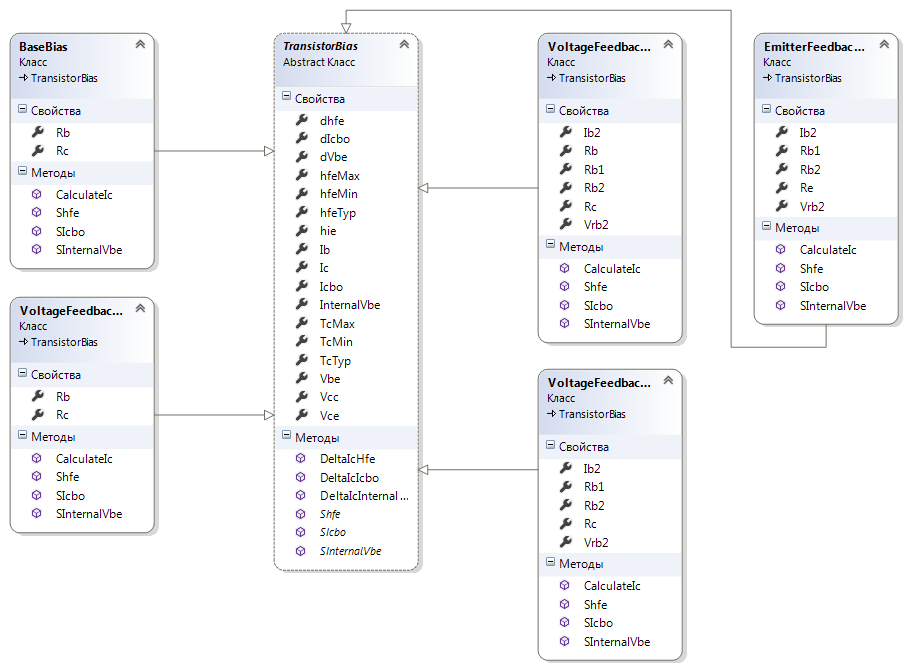
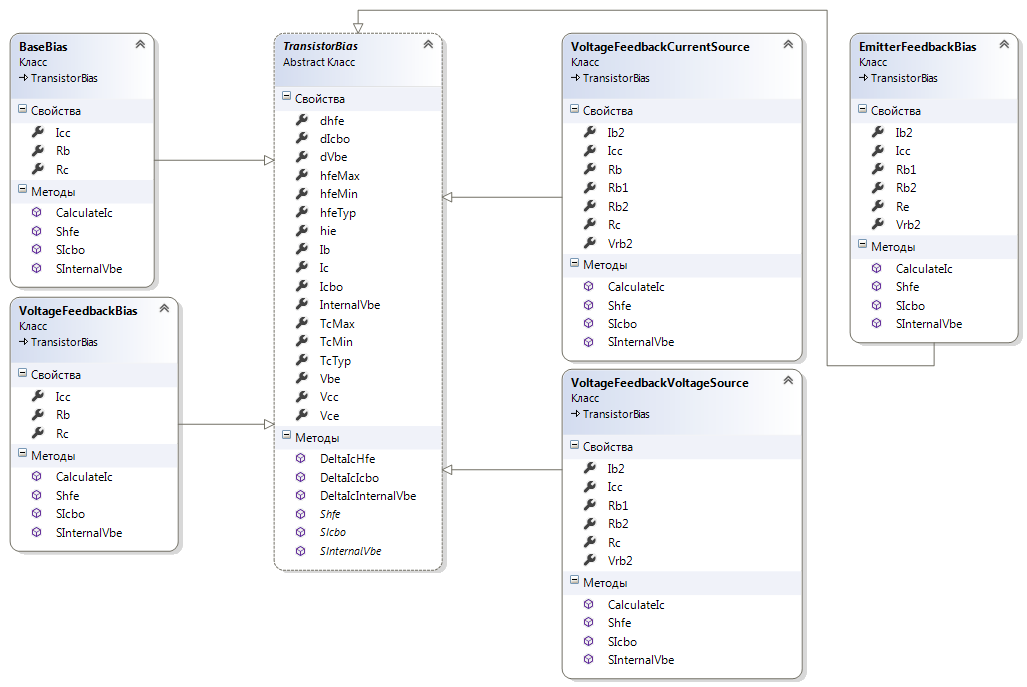
Добавление свойства Icc в классы транзисторных смещений. Редактирование домашней страницы

Changed region(s): [[0.0, 0.0, 1.0, 1.0]]

diff --git a/VKR/Site.Master.designer.cs b/VKR/Site.Master.designer.cs
@@ -1,10 +1,10 @@
 //------------------------------------------------------------------------------
-// <auto-generated>
-//     Этот код был создан программным средством.
+// <автоматически создаваемое>
+//     Этот код создан программой.
 //
-//     Изменения в этом файле могут привести к неправильному поведению и будут утрачены, если
-//     код создается повторно. 
-// </auto-generated>
+//     Изменения в этом файле могут привести к неправильной работе и будут потеряны в случае
+//     повторной генерации кода. 
+// </автоматически создаваемое>
 //------------------------------------------------------------------------------
 
 namespace VKR {
@@ -13,10 +13,10 @@ namespace VKR {
     public partial class SiteMaster {
         
         /// <summary>
-        /// Элемент управления MainContent.
+        /// MainContent элемент управления.
         /// </summary>
         /// <remarks>
-        /// Автоматически созданное поле.
+        /// Автоматически создаваемое поле.
         /// Для изменения переместите объявление поля из файла конструктора в файл кода программной части.
         /// </remarks>
         protected global::System.Web.UI.WebControls.ContentPlaceHolder MainContent;

diff --git a/VKR/BaseBiasForm.aspx.cs b/VKR/BaseBiasForm.aspx.cs
@@ -44,6 +44,7 @@ namespace VKR
 
             RbTextBox.Text = scheme.Rb.ToString();
             RcTextBox.Text = scheme.Rc.ToString();
+            IccTextBox.Text = scheme.Icc.ToString("0.00");
 
             IcTable.Rows[0].Cells[1].Text = scheme.hfeMin.ToString();
             IcTable.Rows[0].Cells[2].Text = scheme.hfeTyp.ToString();
@@ -71,11 +72,6 @@ namespace VKR
             STable.Rows[2].Cells[2].Text = deltaIcInternalVbe.ToString("0.000");
             STable.Rows[3].Cells[2].Text = deltaIcHfe.ToString("0.000");
             STable.Rows[4].Cells[2].Text = (deltaIcIcbo + deltaIcInternalVbe + deltaIcHfe).ToString("0.000");
-        }
-
-        protected void IcTextBox_TextChanged(object sender, EventArgs e)
-        {
-            Label1.Text = "IcTextBox Text = " + IcTextBox.Text;
         }
     }
 }

diff --git a/VKR/BaseBiasForm.aspx.designer.cs b/VKR/BaseBiasForm.aspx.designer.cs
@@ -184,15 +184,6 @@ namespace VKR {
         protected global::System.Web.UI.WebControls.Label IccLabel;
         
         /// <summary>
-        /// Label1 элемент управления.
-        /// </summary>
-        /// <remarks>
-        /// Автоматически создаваемое поле.
-        /// Для изменения переместите объявление поля из файла конструктора в файл кода программной части.
-        /// </remarks>
-        protected global::System.Web.UI.WebControls.Label Label1;
-        
-        /// <summary>
         /// hfeMinTextBox элемент управления.
         /// </summary>
         /// <remarks>

diff --git a/VKR/EmitterFeedbackBias.cs b/VKR/EmitterFeedbackBias.cs
@@ -58,6 +58,17 @@ namespace VKR
         }
 
         /// <summary>
+        /// Ток источника питания
+        /// </summary>
+        public double Icc
+        {
+            get
+            {
+                return CalculateIc(hfeTyp, TcTyp) + (Ib + Ib2) * 1000;
+            }
+        }
+
+        /// <summary>
         /// Вычисляет коэффициент стабилизации для теплового тока
         /// </summary>
         /// <param name="hfe">Коэффициент усиления тока коллектора</param>

diff --git a/VKR/VoltageFeedbackCurrentSource.cs b/VKR/VoltageFeedbackCurrentSource.cs
@@ -65,6 +65,17 @@ namespace VKR
         }
 
         /// <summary>
+        /// Ток источника питания
+        /// </summary>
+        public double Icc
+        {
+            get
+            {
+                return CalculateIc(hfeTyp, TcTyp) + (Ib + Ib2) * 1000;
+            }
+        }
+
+        /// <summary>
         /// Вычисляет коэффициент стабилизации для теплового тока
         /// </summary>
         /// <param name="hfe">Коэффициент усиления тока коллектора</param>

diff --git a/VKR/VoltageFeedbackVoltageSource.cs b/VKR/VoltageFeedbackVoltageSource.cs
@@ -54,6 +54,17 @@ namespace VKR
         }
 
         /// <summary>
+        /// Ток источника питания
+        /// </summary>
+        public double Icc
+        {
+            get
+            {
+                return CalculateIc(hfeTyp, TcTyp) + (Ib + Ib2) * 1000;
+            }
+        }
+
+        /// <summary>
         /// Вычисляет коэффициент стабилизации для теплового тока
         /// </summary>
         /// <param name="hfe">Коэффициент усиления тока коллектора</param>

diff --git a/VKR/VoltageFeedbackBias.cs b/VKR/VoltageFeedbackBias.cs
@@ -30,6 +30,17 @@ namespace VKR
         }
 
         /// <summary>
+        /// Ток источника питания
+        /// </summary>
+        public double Icc
+        {
+            get
+            {
+                return CalculateIc(hfeTyp, TcTyp) + Ib * 1000;
+            }
+        }
+
+        /// <summary>
         /// Вычисляет коэффициент стабилизации для теплового тока
         /// </summary>
         /// <param name="hfe">Коэффициент усиления тока коллектора</param>

diff --git a/VKR/BaseBias.cs b/VKR/BaseBias.cs
@@ -28,6 +28,17 @@
         }
 
         /// <summary>
+        /// Ток источника питания
+        /// </summary>
+        public double Icc
+        {
+            get
+            {
+                return CalculateIc(hfeTyp, TcTyp) + Ib * 1000;
+            }
+        }
+
+        /// <summary>
         /// Вычисляет коэффициент стабилизации для теплового тока
         /// </summary>
         /// <param name="hfe">Коэффициент усиления тока коллектора</param>

diff --git a/VKR/EmitterFeedbackForm.aspx.cs b/VKR/EmitterFeedbackForm.aspx.cs
@@ -45,6 +45,7 @@ namespace VKR
             Rb2TextBox.Text = scheme.Rb2.ToString("0.");
             ReTextBox.Text = scheme.Re.ToString("0.");
             Irb2TextBox.Text = (scheme.Ib2 * 1000).ToString();
+            IccTextBox.Text = scheme.Icc.ToString("0.00");
 
             IcTable.Rows[0].Cells[1].Text = scheme.hfeMin.ToString();
             IcTable.Rows[0].Cells[2].Text = scheme.hfeTyp.ToString();

diff --git a/VKR/VoltageFeedbackVoltageSourceForm.aspx.cs b/VKR/VoltageFeedbackVoltageSourceForm.aspx.cs
@@ -45,6 +45,7 @@ namespace VKR
             Rb2TextBox.Text = scheme.Rb2.ToString("0.");
             RcTextBox.Text = scheme.Rc.ToString("0.");
             Irb2TextBox.Text = (scheme.Ib2 * 1000).ToString();
+            IccTextBox.Text = scheme.Icc.ToString("0.00");
 
             IcTable.Rows[0].Cells[1].Text = scheme.hfeMin.ToString();
             IcTable.Rows[0].Cells[2].Text = scheme.hfeTyp.ToString();

diff --git a/VKR/VoltageFeedbackCurrentSourceForm.aspx.cs b/VKR/VoltageFeedbackCurrentSourceForm.aspx.cs
@@ -48,6 +48,7 @@ namespace VKR
             RcTextBox.Text = scheme.Rc.ToString("0.");
             Vrb2TextBox.Text = scheme.Vrb2.ToString();
             Irb2TextBox.Text = (scheme.Ib2 * 1000).ToString();
+            IccTextBox.Text = scheme.Icc.ToString("0.00");
 
             IcTable.Rows[0].Cells[1].Text = scheme.hfeMin.ToString();
             IcTable.Rows[0].Cells[2].Text = scheme.hfeTyp.ToString();

diff --git a/VKR/VoltageFeedbackBiasForm.aspx.cs b/VKR/VoltageFeedbackBiasForm.aspx.cs
@@ -44,6 +44,7 @@ namespace VKR
 
             RbTextBox.Text = scheme.Rb.ToString();
             RcTextBox.Text = scheme.Rc.ToString();
+            IccTextBox.Text = scheme.Icc.ToString("0.00");
 
             IcTable.Rows[0].Cells[1].Text = scheme.hfeMin.ToString();
             IcTable.Rows[0].Cells[2].Text = scheme.hfeTyp.ToString();
